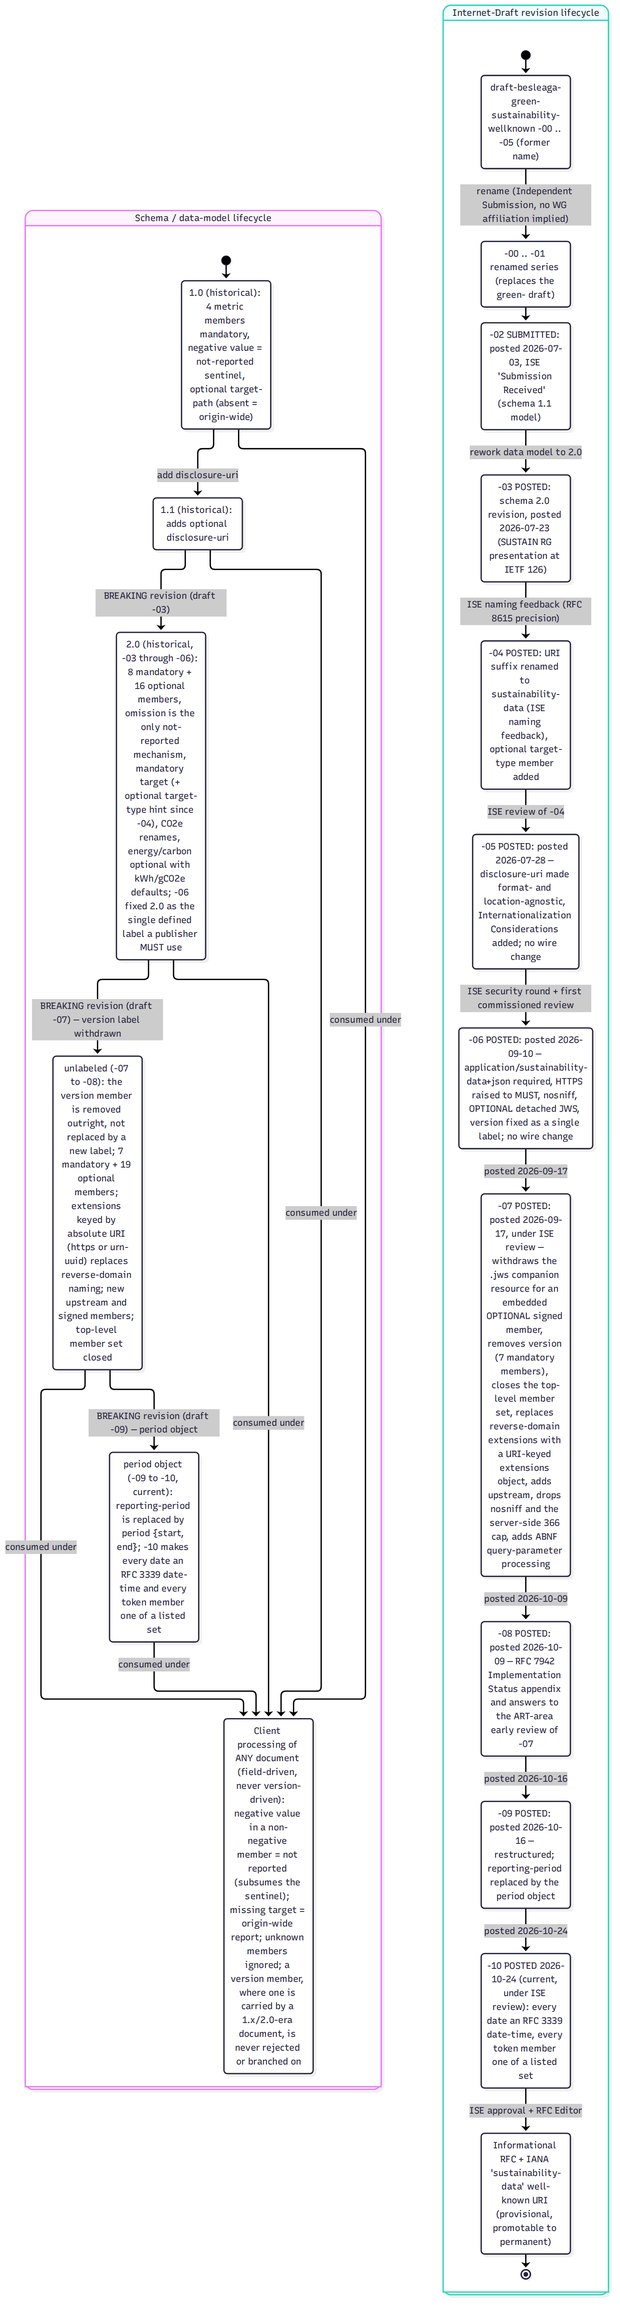
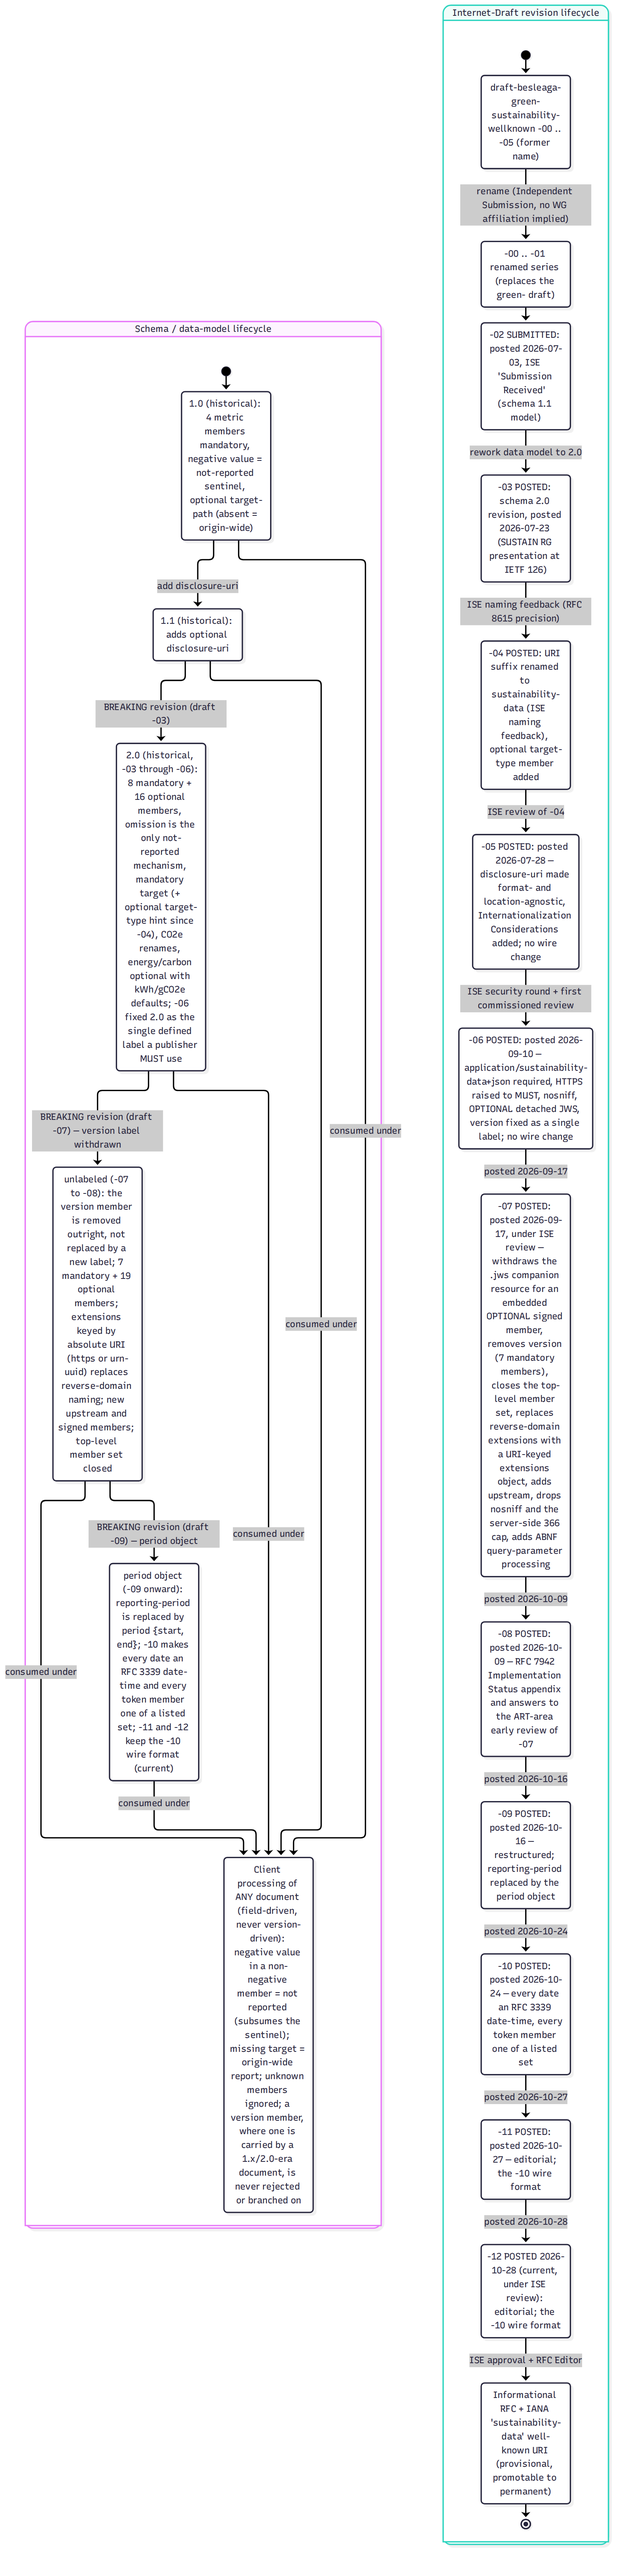
Architecture: bring four diagrams and section 3.2 up to -12
version-state adds -11 and -12 (the -10 wire format); c4-container counts 12
adapters and the 12-check battery and shows the real pipeline; gateway-flow and
c4-component-publisher show the held-object cap that refuses to build instead of
keeping the newest objects, the selection step, the 404 case and the optional
signing step. Section 3.2 describes the -10 data model, with its history in one
closing sentence. PNGs re-rendered with mermaid-cli.

diff --git a/architecture/README.md b/architecture/README.md
@@ -173,12 +173,12 @@ flowchart TB
     %% person = dark blue · container = blue · external = grey · boundaries = dashed.
 
     CLIENT["Consumer<br/>[Person / System]<br/>regulator · aggregator · carbon-aware tool ·<br/>AI agent · browser"]
-    DS["Metric Sources<br/>[External Systems]<br/>enterprise platforms · Kepler/Prometheus ·<br/>Climatiq · CO2.js · GWF carbon.txt API ·<br/>static/computed values"]
+    DS["Metric Sources<br/>[External Systems]<br/>enterprise platforms · Kepler/Prometheus ·<br/>Climatiq · CO2.js · GWF carbon.txt API ·<br/>CSV exports · Slurm sacct · static/computed values"]
 
     subgraph REPO["rfc-sustainability-wellknown reference implementation [System]"]
         subgraph PUBB["Publisher Gateway — publisher/ (npm: sustainability-wellknown-publisher)"]
-            ADP["Source Adapters<br/>[Container: TypeScript]<br/>10 pluggable adapters:<br/>SourceAdapter.fetch(query) → RawMetrics"]
-            PIPE["Publishing Pipeline<br/>[Container: TypeScript]<br/>normalize → secureReports (DoS cap,<br/>daily floor, noise) → JTD validation gate →<br/>bounded in-memory cache + ETag"]
+            ADP["Source Adapters<br/>[Container: TypeScript]<br/>12 pluggable adapters:<br/>SourceAdapter.fetch(query) → RawMetrics"]
+            PIPE["Publishing Pipeline<br/>[Container: TypeScript]<br/>normalize → held-object cap (refuse above 366) →<br/>select → secureReports (day floor, sort,<br/>opt-in noise) → validation gate →<br/>optional signing → bounded in-memory cache + ETag"]
             HTTPL["HTTP Layer<br/>[Container: Node http / Express / Fastify]<br/>framework-agnostic handler · standalone server ·<br/>middleware · CLI — 200/304/404/405/503"]
             CTM["carbon.txt Module<br/>[Container: TypeScript]<br/>emit / parse / discover a bidirectional carbon.txt"]
         end
@@ -187,7 +187,7 @@ flowchart TB
             FETCH["Fetch + Validate Library<br/>[Container: TypeScript]<br/>fetchSustainability: timeout & byte caps ·<br/>legacy-compat pre-pass · JTD + prose rules"]
             SCLI["SustainabilityClient<br/>[Container: TypeScript]<br/>ETag-cached polling"]
             TR["Transforms<br/>[Container: TypeScript]<br/>CSV · NDJSON · flatten · total"]
-            FCLI["sustainability-fetch CLI<br/>[Container: Node bin]<br/>--strict = 8-check conformance battery<br/>against any origin"]
+            FCLI["sustainability-fetch CLI<br/>[Container: Node bin]<br/>--strict = 12-check conformance battery<br/>against any origin"]
         end
 
         SCHEMAS["Formal Schemas + Validators<br/>[Container: CDDL (RFC 8610) + JTD (RFC 8927)]<br/>schemas-validators/: dual Python/Ruby validators;<br/>schema copies embedded in both packages,<br/>equal to the canonical file in CI"]
@@ -361,37 +361,48 @@ sequenceDiagram
 
 ### 3.2 Data model (26 members)
 
-A response is a single `SustainabilityMetrics` object or an array of them
-(a trend). **As of `-07`: 7 members are mandatory, 19 optional — 26 total**
-(the reference codebase has implemented this count since 0.7.0, and carries no
-`version` member; see the note at the top of §3). Omission is the
-only "not reported" mechanism (true since `-03`, unaffected by `version`'s
-removal): a present member always carries a real value. Gross quantities are
-non-negative; `renewable-energy` is bounded 0–100 inclusive; `scope-1/2/3`
-**may** be negative (removals / net accounting); absent unit members default
-to `kWh` and `gCO2e`; `sci-score` requires `functional-unit`. The `-04`
-revision adds the optional `target-type` member — an enumerated hint
-(`origin`/`path`/`organization`/`service`/`product`/`device`/`tenant`/`data-source`)
-classifying the subject named by `target`; unrecognized values are
-tolerated (the client reads `target` as if the hint were absent), and array
-entries share one value. **`-07` closes the top-level member set**: a
-publisher MUST NOT add other top-level members, and a consumer MUST ignore
-one it does not recognize. Private extension data now lives inside an
-OPTIONAL top-level `extensions` object keyed by an absolute URI (RFC 3986;
-either an `https` URI the definer controls, which should identify documentation
-of the extension, or `urn:uuid:` plus a lowercase hyphenated UUID, RFC 9562),
-replacing the reverse-domain convention (`com.example.pue`; undotted names
-"reserved for the spec") of `-06` and earlier. A key is an identifier compared
-as a string, never dereferenced, and there is no registry; a publisher's
-methodology document should list the names it uses with their definitions. `-07` also adds `upstream` (an
-array of `{declaration, role?}` objects linking to the declarations of
-providers this object's figures derive from, walked by a consumer to a depth
-of at most three, refusing revisited URIs) and `signed` (an OPTIONAL embedded
-JWS replacing the withdrawn `.jws` companion resource). The schemas in
-`schemas-validators/` stay open (`additionalProperties` / `* tstr => any`) so
-that a consumer ignores a member it does not recognize; they define
-`extensions` and `upstream`, and the publisher's validation gate refuses a
-top-level member the draft does not define.
+A response is a single `SustainabilityMetrics` object or an array of them; a
+consumer accepts both forms, and the objects of an array may cover different
+periods and targets of the same origin. **Under `-10` (kept by `-11` and
+`-12`), 7 members are mandatory and 19 optional — 26 total**: `updated`,
+`capabilities`, `provider`, `measurement-method`, `methodology-uri`, `period`
+(an object of two RFC 3339 `date-time` bounds, `start` included, `end`
+excluded) and `target` are mandatory. Omission is the only "not reported"
+mechanism: a present member always carries a real value, and an object carries
+at least one numeric metric or one of `disclosure-uri` and
+`verifiable-attestation-uri`. Gross quantities are non-negative;
+`renewable-energy` is bounded 0–100 inclusive; `scope-1/2/3` **may** be
+negative (removals / net accounting); absent unit members default to `kWh` and
+`gCO2e`; `sci-score` requires `functional-unit`. Every token member takes one
+of a closed set: `capabilities` (2), `measurement-method` (4), `energy-unit`
+(4), `carbon-unit` (`gCO2e`, `kgCO2e`, `tCO2e`), `carbon-accounting` (2),
+`functional-unit` (12), the `upstream` `role` (6) and the optional
+`target-type` (9: `organization`, `facility`, `origin`, `path`, `service`,
+`product`, `device`, `tenant`, `data-source`), which classifies the subject
+named by `target` and does not change its syntax or comparison. A value outside
+its set makes the document invalid; the consumer's legacy-compatibility
+pre-pass reads a `-08` or `-09` document's period and out-of-set tokens as
+their `-10` forms and reports each one (an out-of-set `target-type` is
+disregarded). The top-level member set is closed: a publisher MUST NOT add
+other top-level members, and a consumer ignores one it does not recognize.
+Private extension data lives inside the OPTIONAL `extensions` object, keyed by
+an absolute URI (an `https` URI under the definer's control, or a `urn:uuid:`
+name, RFC 9562), compared as a string, never dereferenced, with no registry.
+`upstream` is an array of `{declaration, role?}` objects linking to the
+declarations of providers this object's figures derive from, walked by a
+consumer at most three declarations deep, refusing revisited URIs, within a
+retrieval budget; `signed` is an OPTIONAL embedded JWS (`Ed25519` or `ES256`
+RECOMMENDED). The schemas in `schemas-validators/` stay open
+(`additionalProperties` / `* tstr => any`) so that a consumer ignores a member
+it does not recognize; they define `extensions` and `upstream`, and the
+publisher's validation gate refuses a top-level member the draft does not
+define.
+
+History in one sentence: `target-type` arrived in `-04` (an unrecognized value
+was then tolerated), `-07` removed `version`, closed the member set, replaced
+reverse-domain extension names with `extensions` and added `upstream` and
+`signed`, `-09` replaced `reporting-period` with `period`, and `-10` made every
+date a date-time and every token set closed (`facility` is new).
 
 ![Data model](images/data-model.png)
 
@@ -539,7 +550,7 @@ stateDiagram-v2
         state "1.1 (historical): adds optional disclosure-uri" as V11
         state "2.0 (historical, -03 through -06): 8 mandatory + 16 optional members, omission is the only not-reported mechanism, mandatory target (+ optional target-type hint since -04), CO2e renames, energy/carbon optional with kWh/gCO2e defaults; -06 fixed 2.0 as the single defined label a publisher MUST use" as V20
         state "unlabeled (-07 to -08): the version member is removed outright, not replaced by a new label; 7 mandatory + 19 optional members; extensions keyed by absolute URI (https or urn-uuid) replaces reverse-domain naming; new upstream and signed members; top-level member set closed" as V07
-        state "period object (-09 to -10, current): reporting-period is replaced by period {start, end}; -10 makes every date an RFC 3339 date-time and every token member one of a listed set" as V10P
+        state "period object (-09 onward): reporting-period is replaced by period {start, end}; -10 makes every date an RFC 3339 date-time and every token member one of a listed set; -11 and -12 keep the -10 wire format (current)" as V10P
         state "Client processing of ANY document (field-driven, never version-driven): negative value in a non-negative member = not reported (subsumes the sentinel); missing target = origin-wide report; unknown members ignored; a version member, where one is carried by a 1.x/2.0-era document, is never rejected or branched on" as COMPAT
 
         [*] --> V10
@@ -565,7 +576,9 @@ stateDiagram-v2
         state "-07 POSTED: posted 2026-09-17, under ISE review — withdraws the .jws companion resource for an embedded OPTIONAL signed member, removes version (7 mandatory members), closes the top-level member set, replaces reverse-domain extensions with a URI-keyed extensions object, adds upstream, drops nosniff and the server-side 366 cap, adds ABNF query-parameter processing" as POSTED7
         state "-08 POSTED: posted 2026-10-09 — RFC 7942 Implementation Status appendix and answers to the ART-area early review of -07" as POSTED8
         state "-09 POSTED: posted 2026-10-16 — restructured; reporting-period replaced by the period object" as POSTED9
-        state "-10 POSTED 2026-10-24 (current, under ISE review): every date an RFC 3339 date-time, every token member one of a listed set" as POSTED10
+        state "-10 POSTED: posted 2026-10-24 — every date an RFC 3339 date-time, every token member one of a listed set" as POSTED10
+        state "-11 POSTED: posted 2026-10-27 — editorial; the -10 wire format" as POSTED11
+        state "-12 POSTED 2026-10-28 (current, under ISE review): editorial; the -10 wire format" as POSTED12
         state "Informational RFC + IANA 'sustainability-data' well-known URI (provisional, promotable to permanent)" as RFC
 
         [*] --> GREEN
@@ -579,7 +592,9 @@ stateDiagram-v2
         POSTED7 --> POSTED8 : posted 2026-10-09
         POSTED8 --> POSTED9 : posted 2026-10-16
         POSTED9 --> POSTED10 : posted 2026-10-24
-        POSTED10 --> RFC : ISE approval + RFC Editor
+        POSTED10 --> POSTED11 : posted 2026-10-27
+        POSTED11 --> POSTED12 : posted 2026-10-28
+        POSTED12 --> RFC : ISE approval + RFC Editor
         RFC --> [*]
     }
 ```
@@ -656,7 +671,7 @@ flowchart TD
         S1["Enterprise platform<br/>(Salesforce NZC / MS Sustainability / Watershed)"]
         S2["Energy telemetry<br/>(Kepler / Prometheus)"]
         S3["Carbon models & APIs<br/>(Climatiq · CO2.js · GWF carbon.txt API)"]
-        S4["Static / computed config"]
+        S4["Static / computed config ·<br/>CSV exports · Slurm sacct"]
     end
 
     S1 --> AD
@@ -668,16 +683,23 @@ flowchart TD
 
     N["normalize()<br/>· joules → kWh, unit conversion (Wh…GWh, g…tCO2e)<br/>· carbon = energy × grid intensity when absent<br/>· defaults: capabilities basic, updated now<br/>· mandatory target (adapter value or configured fallback)<br/>· reject negative gross metrics, renewable outside 0–100,<br/>  sci-score without functional-unit, bad periods"]
 
-    N -- "SustainabilityMetrics[]" --> G1
+    N -- "SustainabilityMetrics[]" --> CAP
+
+    CAP{"held objects ><br/>maxObjects (366 by default)?"}
+    CAP -- "yes: build refused<br/>(an answer is never cut)" --> R503
+    CAP -- "no" --> SEL
+
+    SEL["Select (selection.ts): the objects that satisfy<br/>every honored parameter; all held objects<br/>when none is honored"] --> G1
 
     subgraph SAFE["secureReports() — operational safeguards"]
-        G1["Daily floor: drop entries with<br/>period shorter than a calendar day"] --> G2
+        G1["Day floor: drop (default, with a warning),<br/>warn or keep an object whose bounds are<br/>not on calendar-day boundaries"] --> G2
         G2["Sort ascending by period.start"] --> G3
-        G3["Defensive cap: max 366 objects,<br/>keep most recent (a deployment safeguard;<br/>-07 puts the binding bound on the consumer)"] --> G4
-        G4["Optional anti-fingerprinting noise:<br/>~±1% multiplicative, deterministic per period,<br/>consistent across related fields"]
+        G3["Optional anti-fingerprinting noise (off by default,<br/>needs noiseDisclosed): ~±1% multiplicative,<br/>deterministic per period, consistent across related fields"]
     end
 
-    G4 --> SHAPE{"honored any<br/>parameter?"}
+    G3 --> EMPTY{"nothing left, no parameter honored<br/>and no array answer?"}
+    EMPTY -- "yes" --> R404["404 (no data)"]
+    EMPTY -- "no" --> SHAPE{"honored any<br/>parameter?"}
     SHAPE -- "yes" --> ARR["Array (empty allowed)"]
     SHAPE -- "no" --> ONE["As held (Basic) /<br/>array (Extended)"]
 
@@ -686,7 +708,8 @@ flowchart TD
 
     V{"JTD validation gate<br/>assertValid(): schema + prose rules"}
     V -- "fail" --> R503["503 Service Unavailable<br/>(never publish corrupt data; onError logged)"]
-    V -- "pass" --> CACHE["Serialize + SHA-1 ETag<br/>bounded in-memory cache<br/>(TTL 24h, ≤256 query variants)"]
+    V -- "pass" --> SIGN["Optional signed member<br/>(Ed25519 / ES256 JWS; the last step)"]
+    SIGN --> CACHE["Serialize + SHA-1 ETag<br/>bounded in-memory cache<br/>(TTL 24h, ≤256 query variants)"]
 
     CACHE --> H["handler.ts → HTTP<br/>200 + ETag + Cache-Control + CORS<br/>If-None-Match match ⇒ 304"]
     H --> OUT(("/.well-known/sustainability-data<br/>one standard endpoint"))
@@ -710,6 +733,7 @@ flowchart TB
         CQ["Climatiq estimate API"]
         GW["GWF Greencheck + carbon.txt API"]
         FS["Local JSON file / config"]
+        CS["CSV export / Slurm sacct output"]
     end
 
     subgraph PUB["publisher/src (npm: sustainability-wellknown-publisher)"]
@@ -721,12 +745,15 @@ flowchart TB
             A5["co2js (bytes → carbon)"]
             A6["carbontxt-api"]
             A7["enterprise/: salesforce-nzc,<br/>ms-sustainability, watershed"]
+            A8["csv · slurm-sacct"]
         end
-        NORM["normalize.ts<br/>units (J→kWh, Wh↔GWh, g↔mt), carbon = energy × intensity,<br/>defaults, PERIOD_RE, mandatory target, range checks"]
-        SEC["security.ts — secureReports()<br/>daily floor · sort ascending · cap 366 (keep newest;<br/>a deployment safeguard, not a -07 requirement) ·<br/>optional deterministic ~1% noise"]
+        NORM["normalize.ts<br/>units (J→kWh, Wh↔GWh, g↔mt), carbon = energy × intensity,<br/>defaults, date-time periods (period.ts),<br/>closed token sets (tokens.ts), mandatory target, range checks"]
+        SEL["selection.ts — selectDeclarations()<br/>the objects that satisfy every honored parameter"]
+        SEC["security.ts — assertHeldWithinCap(): refuse more than<br/>366 held objects (a deployment safeguard; never truncates) ·<br/>secureReports(): day floor · sort ascending ·<br/>opt-in deterministic ~1% noise (needs noiseDisclosed)"]
         VAL["validate.ts — JTD gate (ajv/jtd)<br/>+ prose rules: non-negative, 0–100, sci↔functional-unit,<br/>finite numbers, start before end, day floor"]
         SCH["schema.ts<br/>embedded RESPONSE_JTD_SCHEMA<br/>(byte-equal to schemas-validators/, CI-checked)"]
-        PUBL["publisher.ts — Publisher<br/>orchestrates build(); single-vs-array shape rule;<br/>bounded in-memory cache (TTL 24h, 256 keys) + SHA-1 ETag"]
+        PUBL["publisher.ts — Publisher<br/>orchestrates build(): cap → select → safeguards →<br/>shape rule → gate → optional signing;<br/>bounded in-memory cache (TTL 24h, 256 keys) + SHA-1 ETag"]
+        JWS["jws.ts — signDocument()<br/>optional embedded signed member (Ed25519 / ES256)"]
         HANDLER["handler.ts — handleRequest()<br/>200/304/404/503, Cache-Control, CORS, If-None-Match"]
         CTXT["carbontxt.ts<br/>emit / parse / discover carbon.txt (TOML)"]
         subgraph HTTP["HTTP exposure"]
@@ -735,7 +762,7 @@ flowchart TB
             FAS["middleware/fastify.ts"]
             CLI["cli.ts — config file → adapter factory →<br/>serve or --once print"]
         end
-        UTIL["util.ts — fromWire(), lastFullMonth(), readJson()"]
+        UTIL["util.ts — readJson(), fetchJson() with a byte cap, nowDateTime()"]
     end
 
     CLIENT(("HTTP client"))
@@ -749,13 +776,17 @@ flowchart TB
     GW --> A6
     FS --> A1
     FS --> A2
+    CS --> A8
 
     PUBL -- "fetch(query)" --> ADP
     ADP -- "RawMetrics" --> NORM
     NORM -- "SustainabilityMetrics[]" --> SEC
+    SEC -- "cap checked" --> SEL
+    SEL -- "selection" --> SEC
     SEC --> VAL
     SCH -.-> VAL
     VAL -- "assertValid (fail ⇒ throw ⇒ 503)" --> PUBL
+    PUBL -- "sign (optional, last step)" --> JWS
     PUBL -- "SerializedDocument {body, etag}" --> HANDLER
     HANDLER --> SRV
     HANDLER --> EXP
